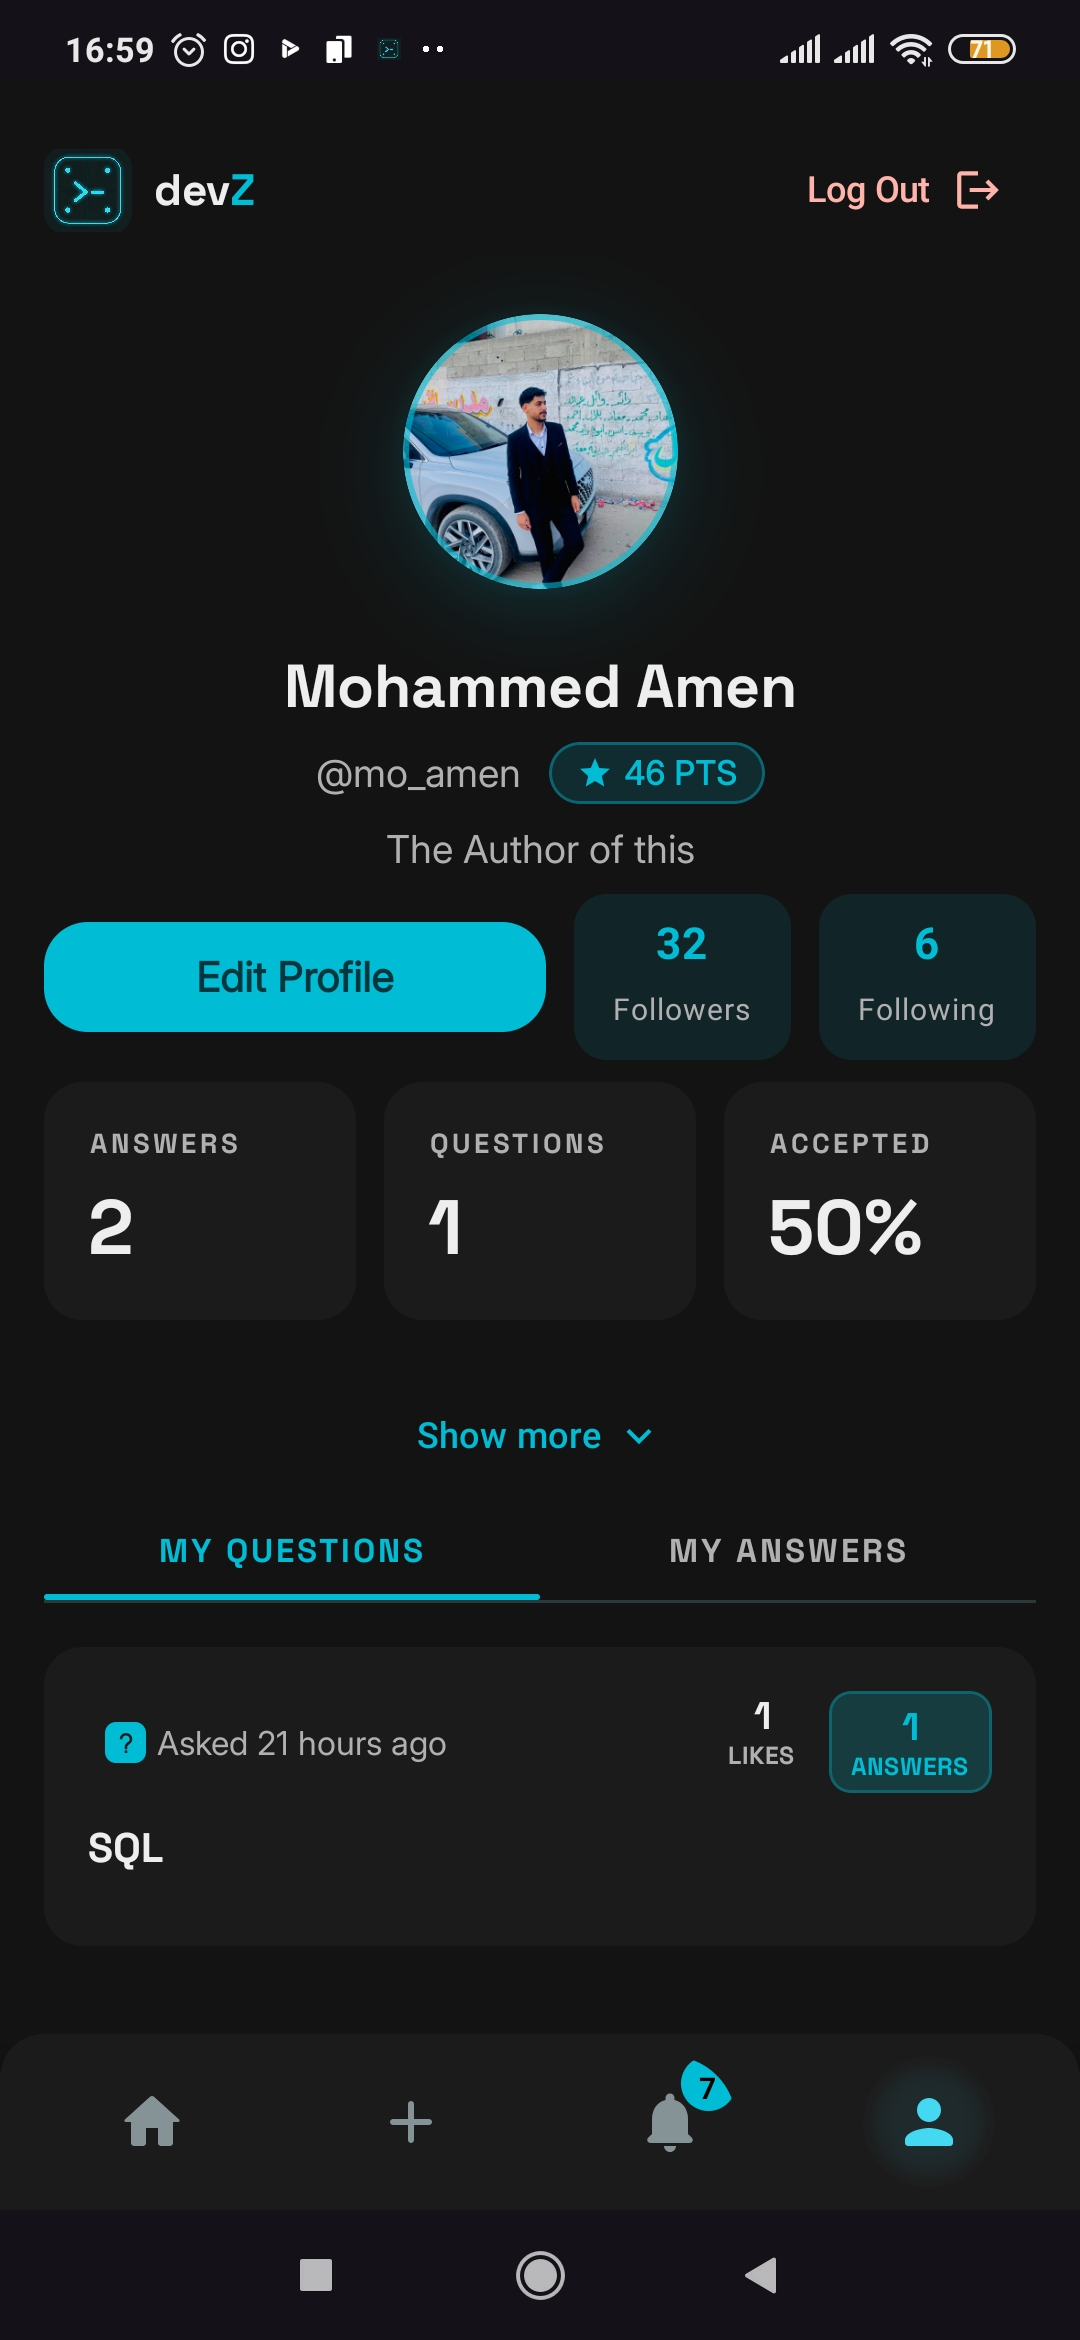
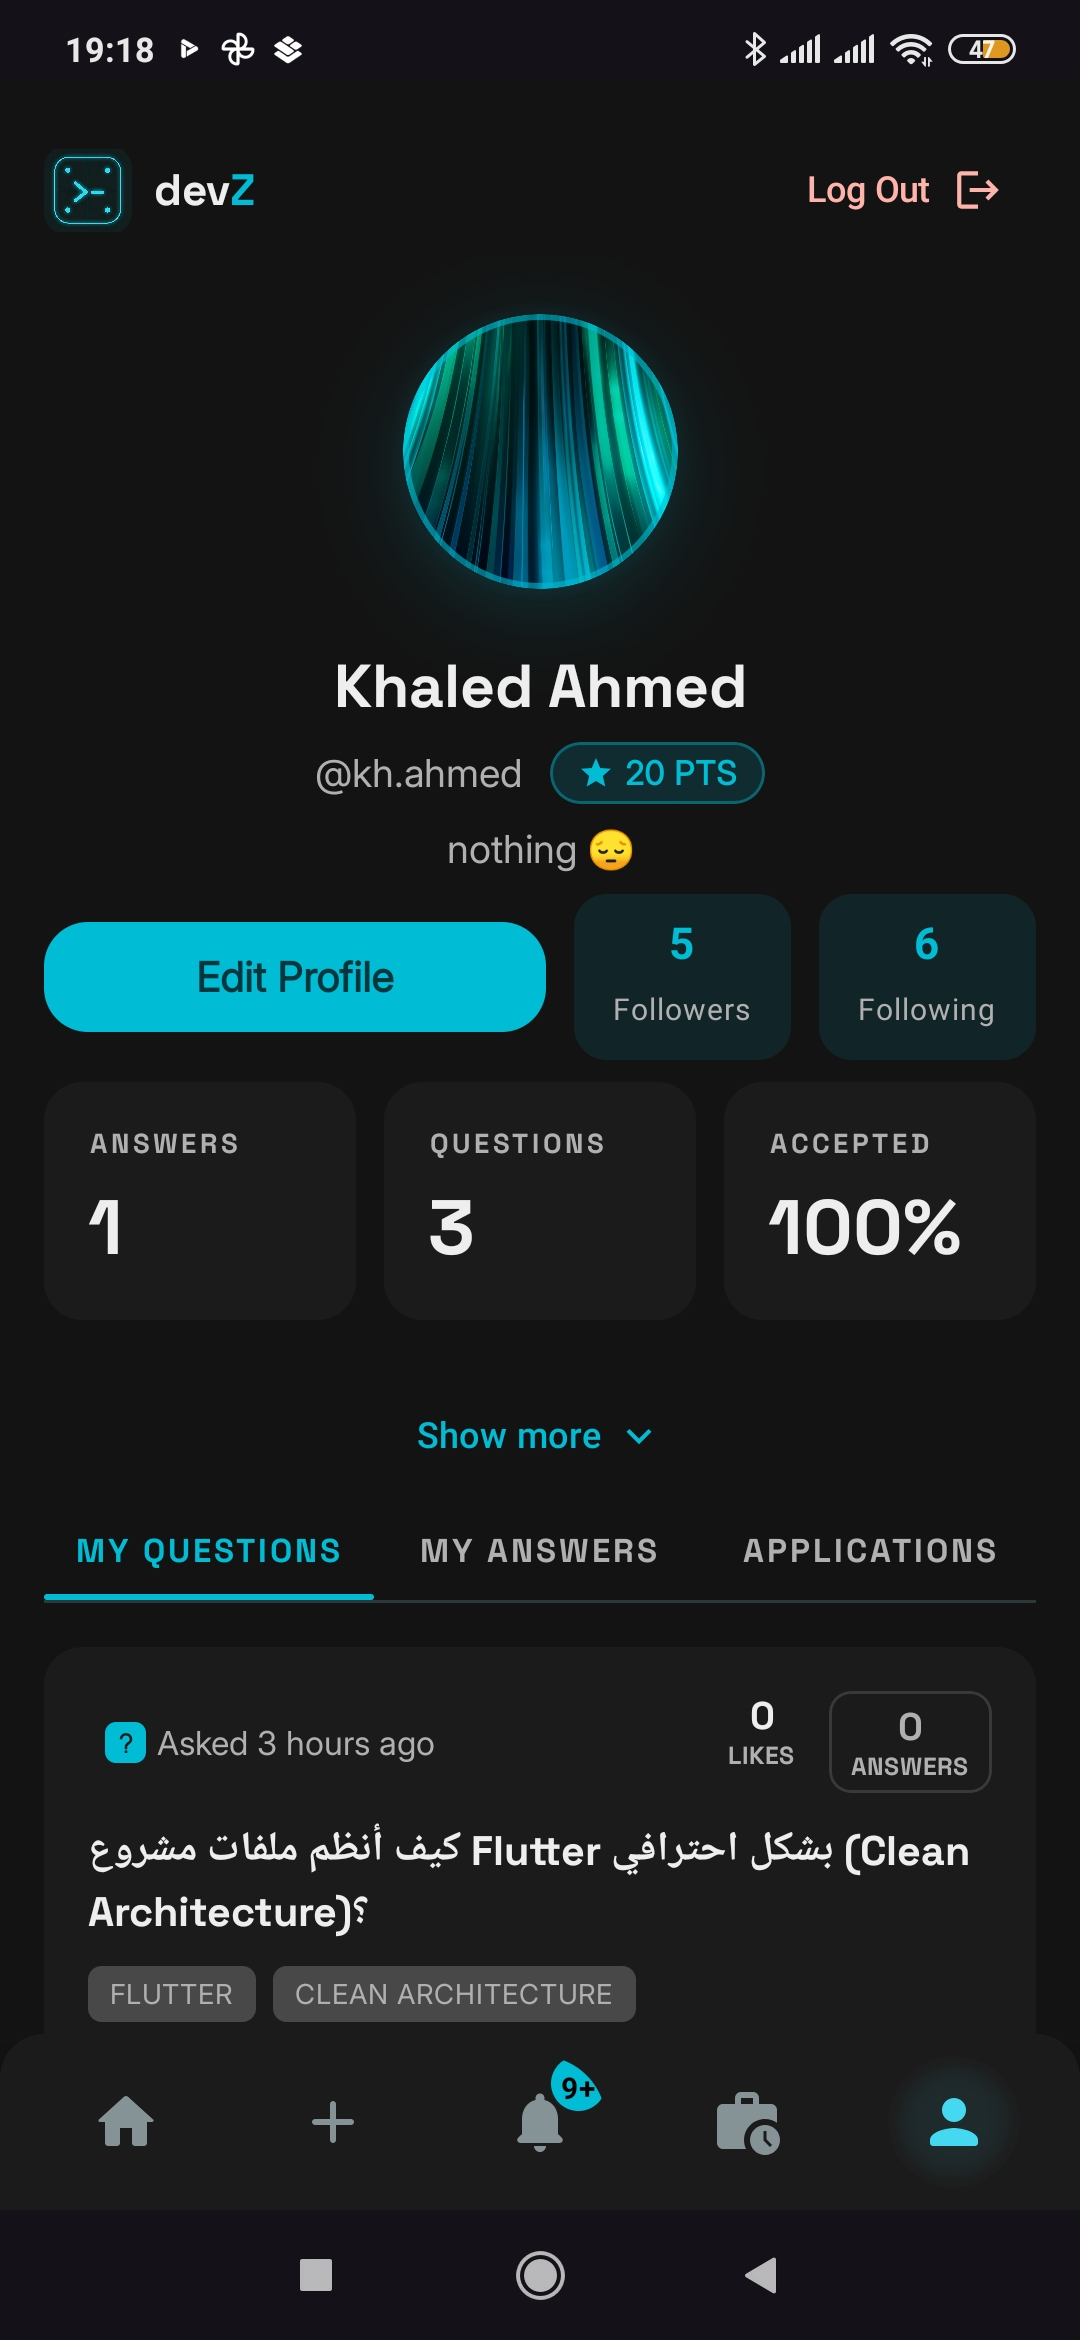
add remaining screenshots, align README gallery filenames, add PendingApproval preview

diff --git a/app/src/main/java/com/mohamed/devz/feature/company/presentation/PendingApprovalScreen.kt b/app/src/main/java/com/mohamed/devz/feature/company/presentation/PendingApprovalScreen.kt
@@ -19,6 +19,7 @@ import androidx.compose.ui.Modifier
 import androidx.compose.ui.graphics.Color
 import androidx.compose.ui.text.font.FontWeight
 import androidx.compose.ui.text.style.TextAlign
+import androidx.compose.ui.tooling.preview.Preview
 import androidx.compose.ui.unit.dp
 import androidx.compose.ui.unit.sp
 import com.mohamed.devz.ui.theme.CyanPrimary
@@ -91,4 +92,10 @@ fun PendingApprovalScreen(
             }
         }
     }
+}
+
+@Preview
+@Composable
+private fun Pe() {
+    PendingApprovalScreen(onGoToHome = {})
 }

diff --git a/README.md b/README.md
@@ -52,7 +52,7 @@
 ### Notifications
 | Notifications | System Announcement |
 |---------------|---------------------|
-| <img src="assets/screenshots/5_notification.jpg" width="180"/> | <img src="assets/screenshots/5.1_systemAnnouncement.jpg" width="180"/> |
+| <img src="assets/screenshots/5.1_notification.jpg" width="180"/> | <img src="assets/screenshots/5.2_systemAnnouncemen.jpg" width="180"/> |
 
 ### Jobs
 | Jobs | Job Detail | Apply Sheet | Post Job |
